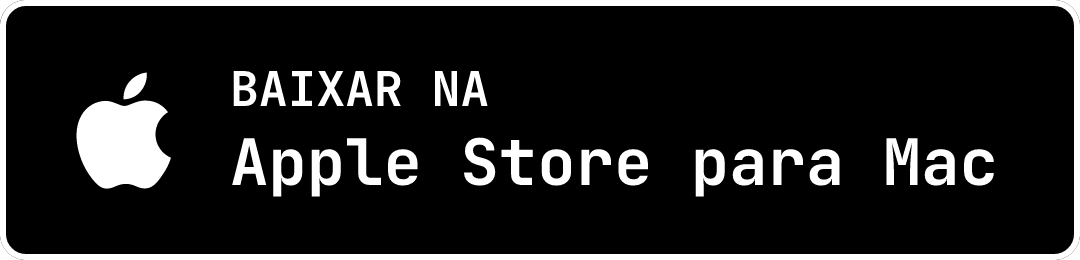
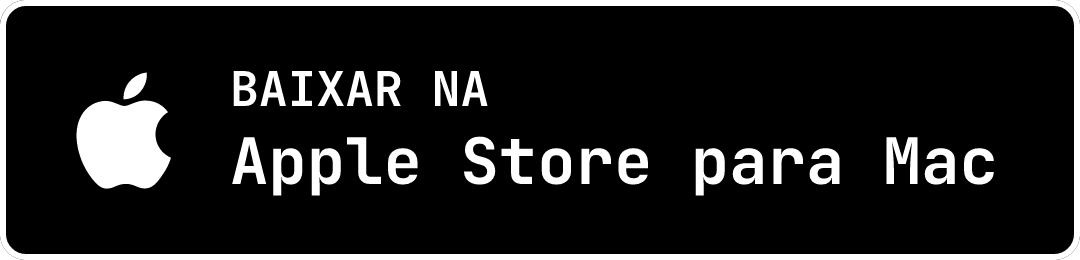
fix(www): preserve image sizing after Satori upgrade

diff --git a/www/src/pages/images/[id].png.ts b/www/src/pages/images/[id].png.ts
@@ -120,6 +120,7 @@ export const GET: APIRoute = async ({ props }) => {
           justifyContent: "center",
           alignItems: "center",
           width: "100%",
+          boxSizing: "border-box",
           padding: `0 ${s(140)}px`,
         },
         children: {
@@ -146,6 +147,7 @@ export const GET: APIRoute = async ({ props }) => {
       style: {
         width: "100%",
         height: "100%",
+        boxSizing: "border-box",
         display: "flex",
         flexDirection: "column",
         alignItems: "center",
